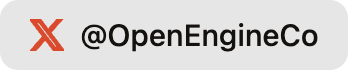
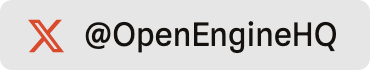
docs: make Discord the primary README call to action
Replace the Discord icon with a filled rust "Join the Discord" button,
first in the social row. Re-render the X button with the correct
@OpenEngineHQ handle. Both come from an editable HTML source.

diff --git a/docs/brand/social/buttons.html b/docs/brand/social/buttons.html
@@ -1,0 +1,34 @@
+<!doctype html>
+<!-- Source for the README social buttons; render steps are in docs/brand/README.md. -->
+<html lang="en">
+<head>
+<meta charset="utf-8">
+<style>
+@font-face { font-family: "Spline Sans"; src: url("../assets/spline-sans.ttf") format("truetype"); font-weight: 100 900; }
+:root { --pill: #171411; --pill-text: #FAF7F1; --rust: #C2240C; --cta-text: #FFFFFF; }
+:root[data-theme="dark"] { --pill: #E6E6E6; --pill-text: #14110E; --rust: #DA4A2C; }
+html, body { margin: 0; background: transparent; }
+body { display: flex; flex-direction: column; align-items: flex-start; gap: 8px; padding: 8px; }
+.button {
+  display: inline-flex; align-items: center; gap: 9px;
+  height: 35px; padding: 0 16px 0 13px; box-sizing: border-box; border-radius: 6px;
+  background: var(--pill); color: var(--pill-text);
+  font: 600 16px/1 "Spline Sans", sans-serif; letter-spacing: 0.005em; white-space: nowrap;
+}
+.button svg { width: 20px; height: 20px; fill: var(--rust); flex: none; }
+/* The primary call to action: the only filled rust button in the row. */
+.button.cta { background: var(--rust); color: var(--cta-text); }
+.button.cta svg { fill: currentColor; }
+</style>
+</head>
+<body>
+<div class="button cta" id="discord-cta">
+  <svg viewBox="0 0 24 24" aria-hidden="true"><path d="M20.32 4.37a19.8 19.8 0 0 0-4.89-1.52.07.07 0 0 0-.08.04c-.21.37-.44.86-.6 1.25a18.27 18.27 0 0 0-5.49 0 12.6 12.6 0 0 0-.61-1.25.08.08 0 0 0-.08-.04 19.74 19.74 0 0 0-4.89 1.52.07.07 0 0 0-.03.03C.53 9.05-.32 13.58.1 18.06a.08.08 0 0 0 .03.05 19.9 19.9 0 0 0 6 3.03.08.08 0 0 0 .08-.03c.46-.63.87-1.3 1.23-2a.08.08 0 0 0-.04-.1 13.1 13.1 0 0 1-1.87-.9.08.08 0 0 1-.01-.12c.13-.1.25-.2.37-.3a.07.07 0 0 1 .08-.01c3.93 1.8 8.18 1.8 12.06 0a.07.07 0 0 1 .08 0c.12.11.24.21.37.31a.08.08 0 0 1 0 .12 12.3 12.3 0 0 1-1.88.9.08.08 0 0 0-.04.1c.36.7.78 1.37 1.23 2a.08.08 0 0 0 .08.03 19.84 19.84 0 0 0 6.02-3.03.08.08 0 0 0 .03-.05c.5-5.18-.84-9.67-3.55-13.66a.06.06 0 0 0-.03-.03zM8.02 15.33c-1.18 0-2.16-1.08-2.16-2.42 0-1.33.96-2.42 2.16-2.42 1.21 0 2.18 1.1 2.16 2.42 0 1.34-.96 2.42-2.16 2.42zm7.97 0c-1.18 0-2.16-1.08-2.16-2.42 0-1.33.96-2.42 2.16-2.42 1.21 0 2.18 1.1 2.16 2.42 0 1.34-.95 2.42-2.16 2.42z"/></svg>
+  <span>Join the Discord</span>
+</div>
+<div class="button" id="x">
+  <svg viewBox="0 0 24 24" aria-hidden="true"><path d="M18.244 2.25h3.308l-7.227 8.26 8.502 11.24H16.17l-5.214-6.817L4.99 21.75H1.68l7.73-8.835L1.254 2.25H8.08l4.713 6.231zm-1.161 17.52h1.833L7.084 4.126H5.117z"/></svg>
+  <span>@OpenEngineHQ</span>
+</div>
+</body>
+</html>

diff --git a/docs/brand/README.md b/docs/brand/README.md
@@ -101,3 +101,39 @@ a delivery failure; both repairs return to both reviewers.
 The 22-second GIF exports are `docs/assets/zeroshot-demo.gif` (light) and
 `docs/assets/zeroshot-demo-dark.gif` (dark), rendered at 1600 × 940 and 15 fps.
 The README uses the static SVG when reduced motion is preferred.
+
+## Social buttons
+
+`social/buttons.html` is the source for the README call-to-action and X buttons. The
+Discord button is the row's only filled rust button, so it reads as the primary
+action; the other buttons stay ink pills with rust icons. Exports are 70 px tall
+(35 px at 2×) and are displayed at `height="30"`.
+
+Re-render both themes with the Playwright install above:
+
+```sh
+NODE_PATH=/tmp/open-engine-banner-tools/node_modules node <<'JS'
+const { chromium } = require('playwright');
+const { resolve } = require('node:path');
+const { pathToFileURL } = require('node:url');
+(async () => {
+  const browser = await chromium.launch();
+  try {
+    const page = await browser.newPage({ viewport: { width: 480, height: 160 }, deviceScaleFactor: 2 });
+    for (const theme of ['light', 'dark']) {
+      await page.goto(pathToFileURL(resolve('docs/brand/social/buttons.html')).href);
+      await page.evaluate(t => { document.documentElement.dataset.theme = t; }, theme);
+      await page.evaluate(() => document.fonts.ready);
+      for (const id of ['discord-cta', 'x']) {
+        await page.locator(`#${id}`).screenshot({
+          path: resolve(`docs/brand/social/${id}-${theme}.png`),
+          omitBackground: true,
+        });
+      }
+    }
+  } finally {
+    await browser.close();
+  }
+})().catch(error => { console.error(error); process.exitCode = 1; });
+JS
+```

diff --git a/README.md b/README.md
@@ -7,10 +7,10 @@
 
 &nbsp;
 
+<a href="https://discord.gg/fZyzf2Cut9"><picture><source media="(prefers-color-scheme: dark)" srcset="docs/brand/social/discord-cta-dark.png"><img alt="Join the Zeroshot community on Discord" src="docs/brand/social/discord-cta-light.png" height="30"></picture></a>
 <a href="https://theopenengine.com"><picture><source media="(prefers-color-scheme: dark)" srcset="docs/brand/social/website-dark.png"><img alt="Website" src="docs/brand/social/website-light.png" height="30"></picture></a>
 <a href="https://x.com/OpenEngineHQ"><picture><source media="(prefers-color-scheme: dark)" srcset="docs/brand/social/x-dark.png"><img alt="X · @OpenEngineHQ" src="docs/brand/social/x-light.png" height="30"></picture></a>
 <a href="https://www.linkedin.com/company/the-open-engine-company"><picture><source media="(prefers-color-scheme: dark)" srcset="docs/brand/social/linkedin-dark.png"><img alt="LinkedIn" src="docs/brand/social/linkedin-light.png" height="30"></picture></a>
-<a href="https://discord.gg/fZyzf2Cut9"><picture><source media="(prefers-color-scheme: dark)" srcset="docs/brand/social/discord-dark.png"><img alt="Discord" src="docs/brand/social/discord-light.png" height="30"></picture></a>
 
 [![Release](https://img.shields.io/github/v/release/the-open-engine/zeroshot?style=flat&label=release&labelColor=171411&color=171411)](https://github.com/the-open-engine/zeroshot/releases/latest)
 [![npm](https://img.shields.io/npm/v/%40the-open-engine-company%2Fzeroshot?style=flat&labelColor=171411&color=171411)](https://www.npmjs.com/package/@the-open-engine-company/zeroshot)
